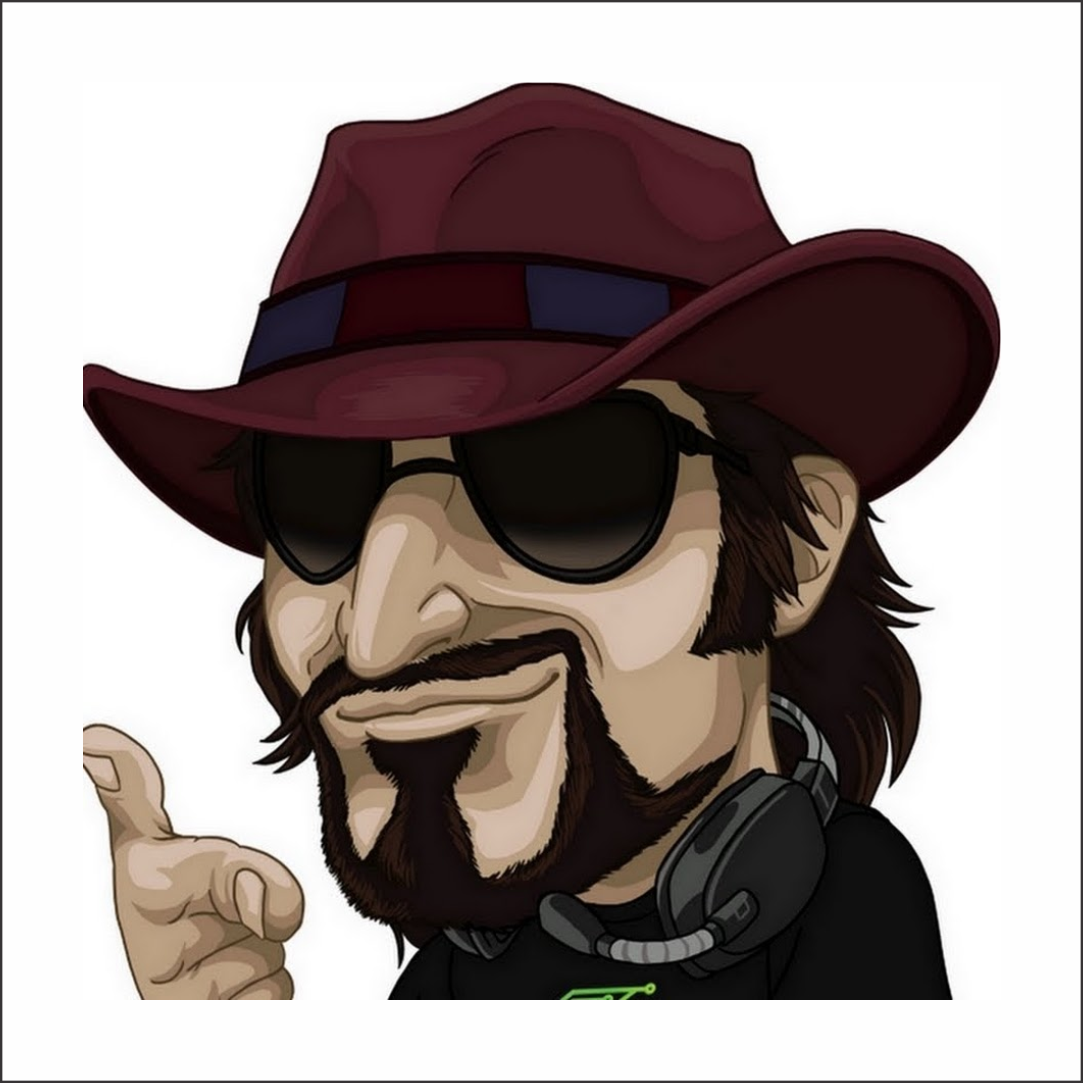
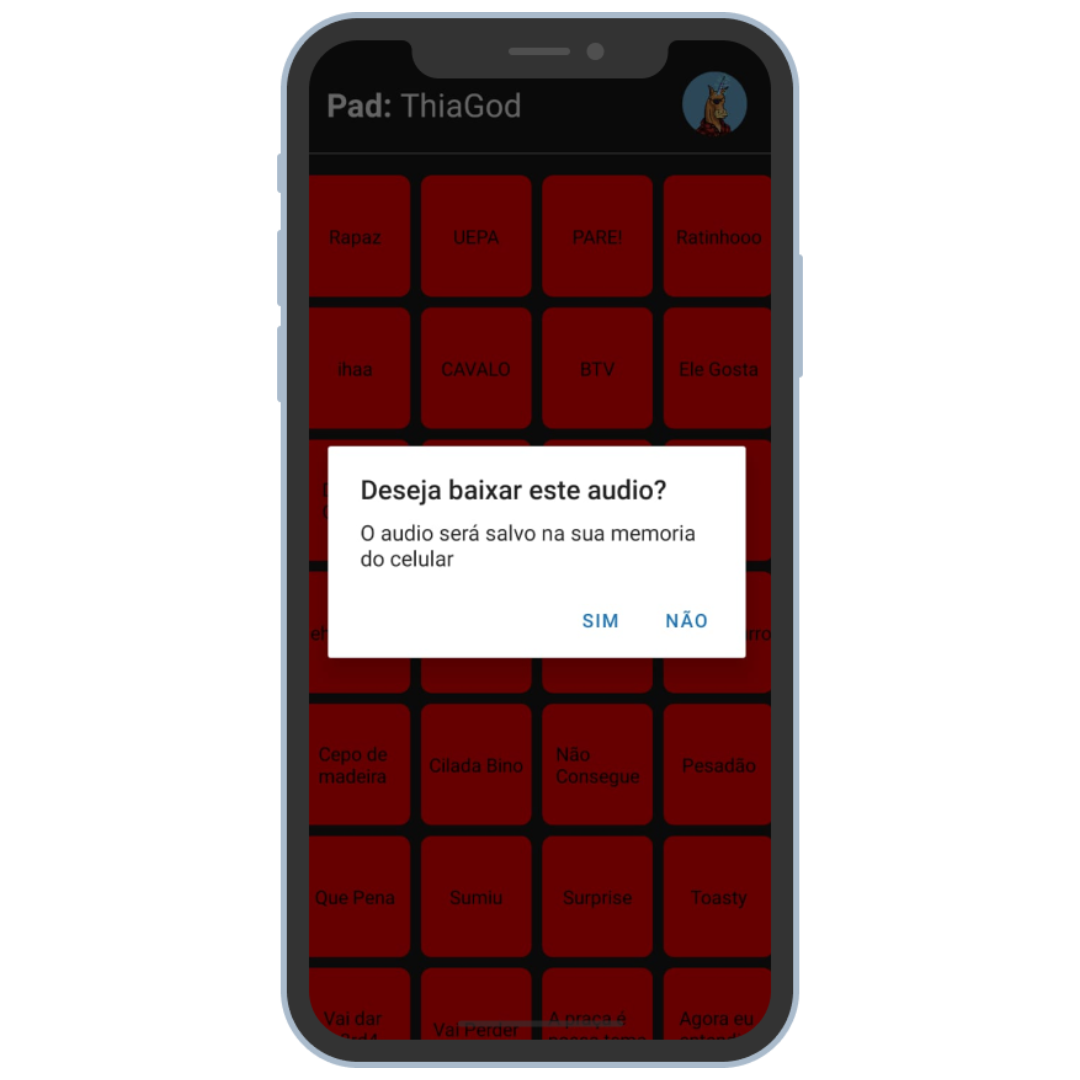
added save audio

diff --git a/src/screens/Home.js b/src/screens/Home.js
@@ -1,15 +1,16 @@
+import { Asset } from 'expo-asset';
+import * as MediaLibrary from 'expo-media-library';
 import { StatusBar as ExpoStatusBar } from "expo-status-bar";
 import {
+  Alert,
   Dimensions,
   FlatList,
-  Image,
-  Platform,
+  Image, Platform,
   SafeAreaView,
   StatusBar,
   StyleSheet,
   Text,
-  TouchableOpacity,
-  View
+  TouchableOpacity, View
 } from "react-native";
 import { useAudioContext } from "../hooks/useAudioContext";
 import { theme } from "../styles/theme";
@@ -19,6 +20,35 @@ const numColumns = 4;
 export default function Home({ navigation }) {
   const { selectedPad, playSound, padColor, padTextColor, tema } = useAudioContext();
 
+  const saveAudio = async (audio) => {
+
+    const audioFileAssetObject = await Asset.loadAsync(audio.source);
+
+    const perm = await MediaLibrary.getPermissionsAsync();
+
+    if (perm.status != 'granted') {
+      return;
+    }
+
+    try {
+      const asset = await MediaLibrary.createAssetAsync(audioFileAssetObject[0].localUri);
+      const album = await MediaLibrary.getAlbumAsync('IFPads');
+
+      if (album == null) {
+        await MediaLibrary.createAlbumAsync('IFPads', asset, false);
+      } else {
+        await MediaLibrary.addAssetsToAlbumAsync([asset], album, false);
+      }
+
+      Alert.alert(
+        "Audio salvo",
+        "O audio foi salvo em " + asset.uri.replace("file://", "").replace(asset.filename, ""),
+      )
+    } catch (e) {
+      console.error(e);
+    }
+  }
+
   const renderItem = ({ item, index }) => {
     if (item.empty) {
       return <View styles={[styles.button, styles.buttonInvisible]}></View>;
@@ -26,6 +56,19 @@ export default function Home({ navigation }) {
       return (
         <TouchableOpacity
           key={index}
+          onLongPress={() => {
+            Alert.alert(
+              "Deseja baixar este audio?",
+              "O audio será salvo na sua memoria do celular",
+              [
+                {
+                  text: "Sim",
+                  onPress: () => saveAudio(item),
+                },
+                { text: "Não", onPress: () => console.log("Não Pressed") }
+              ]
+            )
+          }}
           onPress={() => {
             playSound(item.source);
           }}

diff --git a/src/components/CustomDrawerComponent.js b/src/components/CustomDrawerComponent.js
@@ -28,7 +28,7 @@ export default function CustomDrawerComponent(props) {
           accessibilityLabel={
             "Logo com as letras I F e Pads escrito em baixo do F em laranja"
           }
-          style={{ padding: 20 }}
+          style={{ padding: 20, marginTop: -4 }}
           source={require("../assets/images/banner.png")}
         >
           <Image

diff --git a/src/screens/Onboarding.js b/src/screens/Onboarding.js
@@ -28,7 +28,7 @@ export default function Onboarding({ navigation }) {
     {
       id: 3,
       image: require('../assets/images/onboarding/3.png'),
-      title: "Modo branco opressor",
+      title: "Modo branco 0pr3ss0r",
       subtitle: "O app nasceu com modo escuro, agora temos a possibilidade de usar no dia com modo claro!",
     },
   ]
